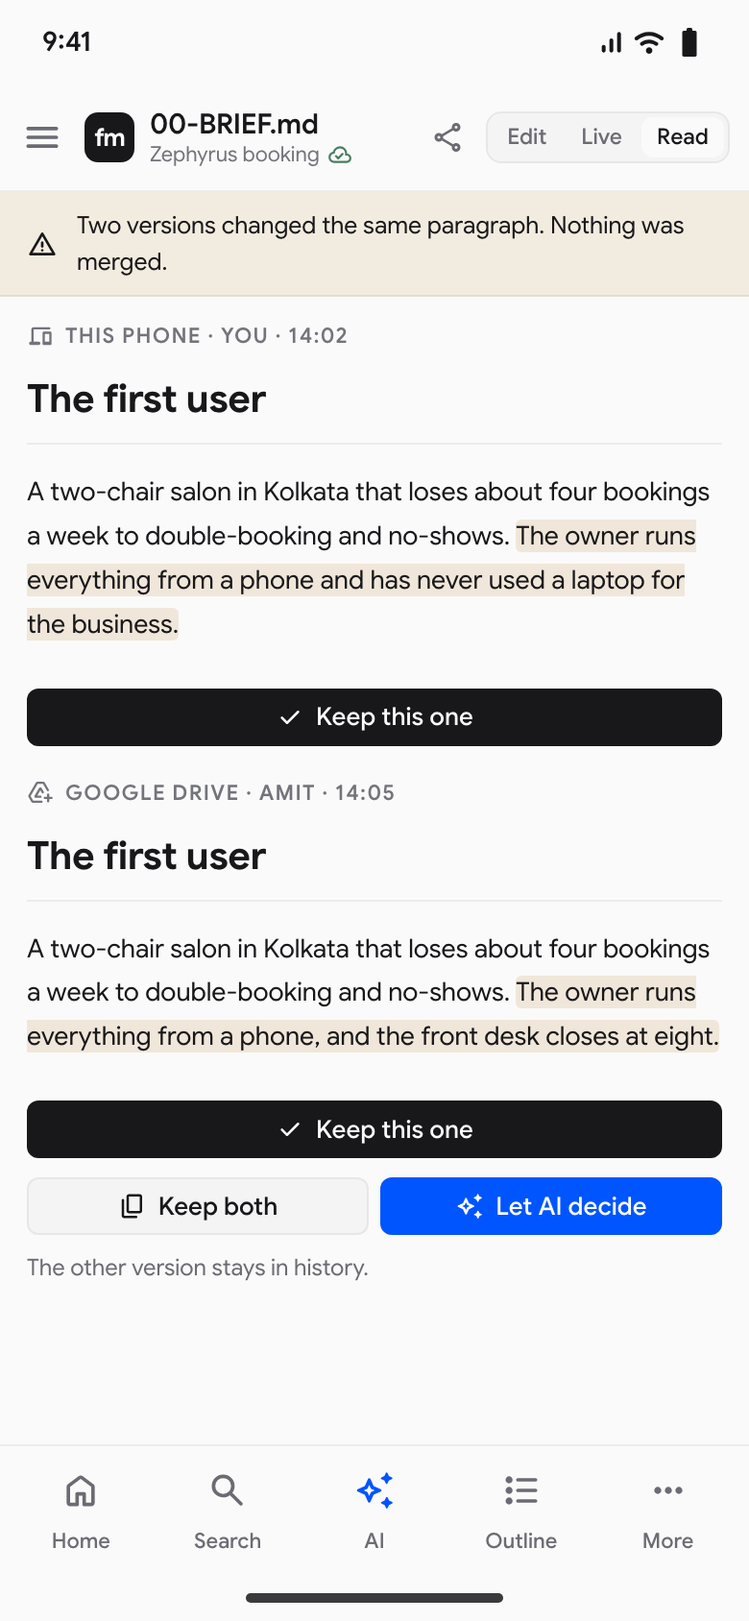
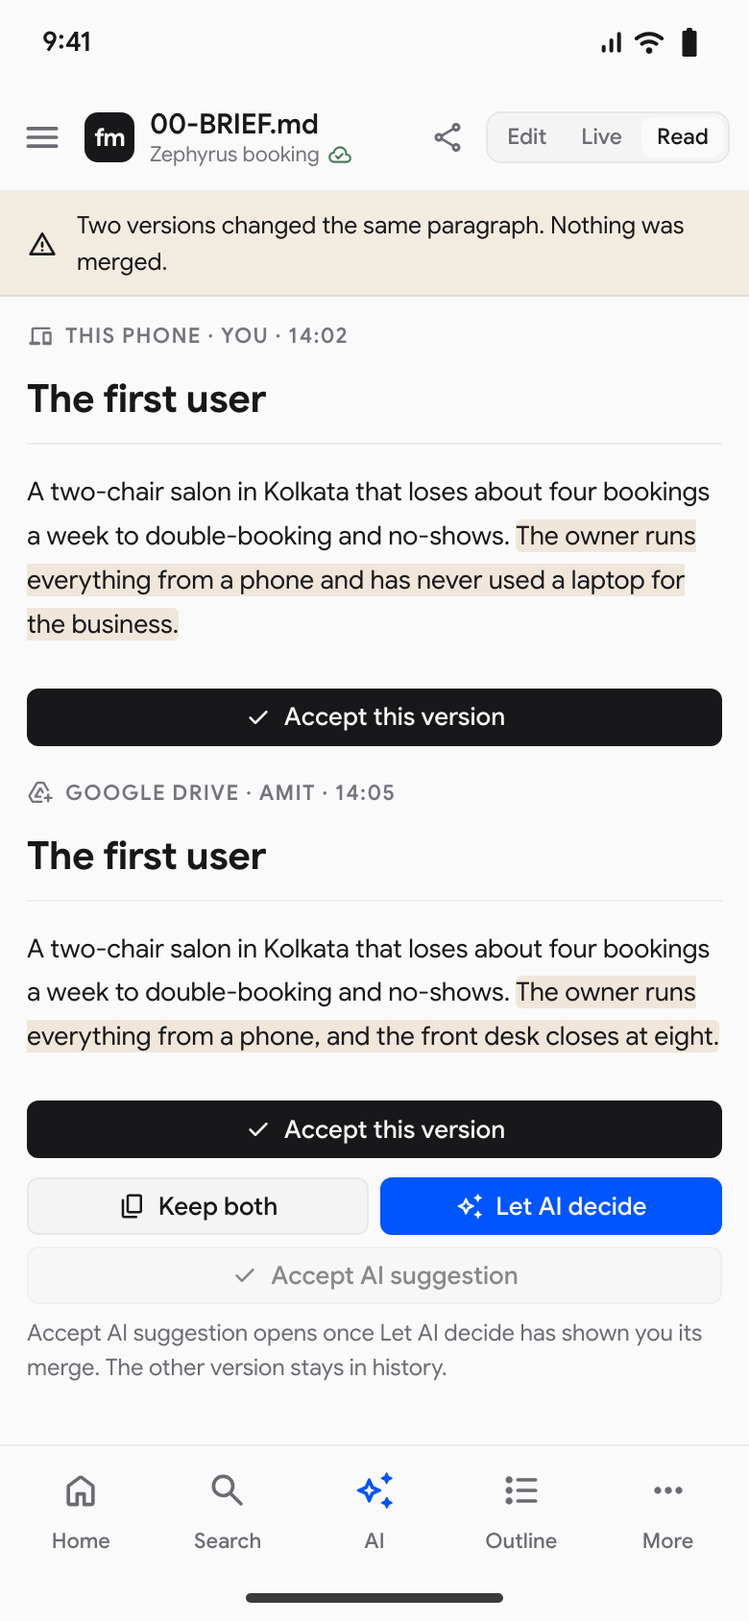
S31: Accept this version on each side, and Accept AI suggestion beside Let AI decide
Founder decision of 18 September 2026 [Z], closing D66. Let AI decide makes the merge as one
change queue item and previews it on S31; Accept AI suggestion is the person accepting that one
item, which writes exactly the previewed bytes. Disabled with its reason until a preview exists.
Review span by span opens S20 as before. A129 still holds; A726 to A728 added.

diff --git a/docs/pack/12-screens/S31.md b/docs/pack/12-screens/S31.md
@@ -41,10 +41,16 @@ A Google Drive edit against a web edit | The same screen, with Drive named as on
 A desktop edit against a GitHub change | The same screen again. `docs/mvp0/PRODUCT-PLAN.md` section 5
 
 How they leave | What happens
-Keep this one, either side | The chosen version becomes the head. The other is in history
+Accept this version, either side | The chosen version becomes the head. The other is in history
 Keep both as two files | Two documents, both intact, neither chosen for the other
-Let AI decide | Stays here. A proposal enters the change queue and is reviewed there, span by span
+Let AI decide | Stays here. One proposal enters the change queue and its merged result is previewed on this screen. Nothing is written
+Accept AI suggestion | The person accepts that one proposal. Its previewed bytes become the head, and both sides stay in history
+Review span by span | Goes to the change queue, S20, opened on the proposal, to accept or reject each span
 Close the tab | The conflict stays. Nothing is resolved by walking away, and nothing is lost
+
+**Two founder decisions of 18 September 2026 shape this screen.** `[Z]` Each side's control reads
+**Accept this version**, where it read Keep this one. And **Accept AI suggestion** sits on this
+screen beside Let AI decide. Both close `D66` below.
 
 **This is the screen the product's central promise is made of.** `[R]` no silent merge, ever,
 `docs/mvp0/PRODUCT-PLAN.md` section 16. The audit found the promise had no screen, which is why
@@ -57,15 +63,22 @@ Conflict banner | `C075` | Which document, which paragraph, why the two diverged
 Left pane | `C120` | One version, with its origin, its author and its time above it | Drawn with the `devices` symbol for a browser
 Right pane | `C120` | The other version, same shape | Drawn with `add_to_drive` when the origin is Drive
 Changed-span mark | `C120` | The span that differs, marked inside otherwise identical text | The `chg` mark in the generator. The unchanged text stays visible on both sides
-Keep control | `C061` | One per pane, directly under that version | Two of them, so a choice is never made from a menu
+Accept control | `C061` | One per pane, directly under that version, reading Accept this version | Two of them, so a choice is never made from a menu. `[Z]` renamed from Keep this one on 18 September
 Keep both | `C061` | One control in the footer bar | Makes two files, and names them
-Let AI decide | `C061` | One control in the footer bar, beside Keep both, marked as the AI action | Available, never hidden. `[Z]` `docs/mvp0/SCREEN-CHANGES-2026-09-18.md:202`
+Let AI decide | `C061` | One control in the footer bar, beside Keep both | Available, never hidden. `[Z]` `docs/mvp0/SCREEN-CHANGES-2026-09-18.md:202`. Once pressed it asks for a proposal and draws the preview. It writes nothing
+AI suggestion preview | `C120` | The merged result the proposal would write, with the changed span marked, and the line that nothing is written yet | Drawn between the panes and the footer bar once the proposal exists. `docs/mvp0/screens/gen.mjs:1872`
+Accept AI suggestion | `C061` | One control in the footer bar, directly after Let AI decide, marked as the AI action | `[Z]` 18 September. Disabled, with the reason under it, until the preview exists. `docs/mvp0/screens/gen.mjs:1873` and `:1878`
+Review span by span | `C061` ghost | One control in the footer bar, after Accept AI suggestion | Opens S20 on the same proposal. Live only once the proposal exists
 Consequence line | `C130` | The line stating that whichever is chosen, the other stays in history | It also names the desktop and GitHub case
-Proposal review | `C119` | The change queue, opened on the proposal the AI made | Not a part of this screen. It is where Let AI decide sends you
+Proposal review | `C119` | The change queue, opened on the proposal the AI made | Not a part of this screen. It is where Review span by span sends you
 
-**Four resolutions, all on one surface.** Keep left, keep right, keep both as two files, and let AI
-decide. `docs/mvp0/PRODUCT-PLAN.md` section 5. The fourth is the only one that does not resolve
-the conflict by itself.
+**Four resolutions, all on one surface.** Accept left, accept right, keep both as two files, and
+let AI decide. `docs/mvp0/PRODUCT-PLAN.md` section 5. The fourth never resolves the conflict by
+itself. It produces a proposal, and the person resolves by accepting it here or span by span in S20.
+
+**What the generator draws.** The desktop view shows the state after Let AI decide, with the preview
+and Accept AI suggestion live. The phone view shows the state before it, with Accept AI suggestion
+disabled and its reason. `docs/mvp0/screens/gen.mjs:1864` to `:1878`.
 
 ## Data contract
 
@@ -73,13 +86,24 @@ what | direction | port or store | shape | when
 The conflict | read | `ConflictReader.get(documentId)` | two version ids, their origins, authors and times, and the differing spans | On opening a conflicted document
 Both versions | read | `VaultReader.getFileAtSha(path, sha)` | the bytes of each side | On render. The interface exists at `src/modules/vault/application/ports.ts`
 Resolution | write | `ConflictWriter.resolve(documentId, choice)` | one of keep-left, keep-right, keep-both | On a keep control
-Merge proposal | write | `ChangeQueueWriter.propose(items)` | one item per span: author, source, span, proposed bytes | On Let AI decide
 Proposed merge | read | `AiMergeProposer.propose(left, right)` | a list of spans, each with the bytes it would write and which side it came from | On Let AI decide, once
-Queue decision | write | `ChangeQueueWriter.accept(itemId)` or `.reject(itemId)` | one item | On each span the person accepts or rejects, in S20
+Merge proposal | write | `ChangeQueueWriter.propose(item)` | **one** item: author AI, source conflict, the spans it carries, the proposed bytes of each, and the merged result's hash | On Let AI decide, after the proposer answers
+Preview | read | `ChangeQueueReader.get(itemId)` | the merged result rendered from the item's spans over the base, plus the hash | On render, while the item is pending
+Accept AI suggestion | write | `ChangeQueueWriter.accept(itemId, { expectedHash })` | one item, and the hash of the preview the person saw | On Accept AI suggestion. Refused if the hash no longer matches
+Queue decision | write | `ChangeQueueWriter.acceptSpan(itemId, spanId)` or `.rejectSpan(itemId, spanId)` | one span of the item | On each span the person accepts or rejects, in S20
 
 **The change queue row already has the right shape.** `docs/mvp0/PRODUCT-PLAN.md` section 18 defines it as
 author, source, span and proposed bytes, held until accepted or rejected and then becoming a
-version. An AI merge proposal is one of these rows per span, and nothing new.
+version. An AI merge proposal is **one** such row that carries several spans.
+
+**Why one item, not one per span.** `[Z]` 18 September: Let AI decide produces the merge as one
+proposal, so that Accept AI suggestion is a single accept of a single item. `INFERENCE:` S20 must
+therefore let a person open that one item and decide its spans one by one, which `A681` requires.
+`UNVERIFIED:` whether `12-screens/S20.md` already draws span-level decisions inside one item. It
+describes rows, not spans within a row.
+
+**`acceptSpan`, `rejectSpan`, `ChangeQueueReader` and the `expectedHash` option are specified, not
+built.** No change queue exists in the code at `0af3c90`.
 
 **`listConflicts` exists in the code and this screen does not.** `[O]`
 `src/modules/share/application/list-conflicts.ts` is present at `0af3c90`. `UNVERIFIED:` whether it
@@ -89,32 +113,43 @@ carries the shape this screen needs, because it was not read in this session.
 
 action | trigger | what happens | failure behaviour | event id
 Show the conflict | Opening a conflicted document | Both versions render side by side, neither marked as preferred | `E850` when one side's bytes cannot be read. The other side is still shown and no choice is offered | `conflict.shown`
-Keep this one, left | The left pane's control | That version becomes the head. The other becomes a history entry | `E106` on a failed write. Nothing changes and the conflict stands | `conflict.resolved`
-Keep this one, right | The right pane's control | The same, mirrored | `E106` | `conflict.resolved`
+Accept this version, left | The left pane's control | That version becomes the head. The other becomes a history entry | `E106` on a failed write. Nothing changes and the conflict stands | `conflict.resolved`
+Accept this version, right | The right pane's control | The same, mirrored | `E106` | `conflict.resolved`
 Keep both as two files | The footer control | Two documents, each with a name that says which is which | `E550` when a name is taken. It asks rather than silently renaming | `conflict.resolved`
-Let AI decide | The footer control | A merge is proposed. Every span it would change becomes a change queue item. **The file is not written.** The person is taken to the queue | `E080` when no provider answers, which is S32's condition. The four other resolutions stay available and nothing is spent | `conflict.ai.merge.proposed`
-Accept a proposed span | In the queue, per item | That one span is spliced. The rest of the proposal stays pending | The splice writer refuses rather than guess on an ambiguous range, and says which span it refused | `doc.change.accepted`
-Reject a proposed span | In the queue, per item | That item is dropped. Nothing is written | None | `doc.change.rejected`
-Accept every proposed span | In the queue | Each item is applied in turn, and counted separately in the measures | A refusal on one span stops at that span and leaves the earlier ones applied, named | `doc.change.accepted`
+Let AI decide | The footer control | A merge is proposed and entered as **one** change queue item. Its merged result is drawn as a preview on this screen. **The file is not written.** The person stays here | `E080` when no provider answers, which is S32's condition. The other resolutions stay available and nothing is spent | `conflict.ai.merge.proposed`
+Accept AI suggestion | The footer control, live once the preview exists | The person accepts that one item. Exactly the previewed bytes are spliced as one version, authored AI and accepted by this person. Both sides stay in history | `E106` on a failed write, and nothing changes. If the item or the file changed after the preview was drawn, the accept is refused, the preview is redrawn, and nothing is written | `doc.change.accepted`
+Review span by span | The footer control, live once the preview exists | S20 opens on the same item, with its spans listed | None. Leaving S20 without deciding leaves the item pending and the conflict open | none
+Accept a proposed span | In S20, per span of the item | That one span is spliced. The item's other spans stay pending | The splice writer refuses rather than guess on an ambiguous range, and says which span it refused | `doc.change.accepted`
+Reject a proposed span | In S20, per span of the item | That span is dropped. Nothing is written | None | `doc.change.rejected`
+
+**Accept AI suggestion is not a bulk accept.** `12-screens/S20.md` rules that AI items are never
+accepted in bulk and never applied without a person pressing accept. This control is one person's
+accept of one item, pressed with the whole result on screen. Nothing is accepted that was not shown.
+
+**The disabled state.** Before Let AI decide has run, while the proposer is still answering, and when
+no provider answered, Accept AI suggestion and Review span by span are drawn disabled. The reason is
+stated under them in words, `K.s31.acceptai.off`, never only by a greyed control.
 
 **The path Let AI decide takes.** The one thing on this screen a builder can get wrong.
 
 ```mermaid
 flowchart TD
   A[Two versions differ] --> B{Person chooses}
-  B -->|Keep left| C[Left becomes head, right into history]
-  B -->|Keep right| D[Right becomes head, left into history]
+  B -->|Accept left| C[Left becomes head, right into history]
+  B -->|Accept right| D[Right becomes head, left into history]
   B -->|Keep both| E[Two files, both intact]
   B -->|Let AI decide| F[Model proposes a merge]
-  F --> G[One change queue item per span]
-  G --> H{Per span, the owner decides}
-  H -->|Accept| I[That span is spliced, a version is written]
-  H -->|Reject| J[Nothing is written for that span]
+  F --> G[One change queue item, previewed on S31]
+  G --> H{The person decides}
+  H -->|Accept AI suggestion| I[Exactly the previewed bytes are spliced as one version]
+  H -->|Review span by span| L[S20, per span accept or reject]
+  L -->|Accept a span| M[That span is spliced]
+  L -->|Reject a span| J[Nothing is written for that span]
   G -.->|never| K[Writing the merge to the file]
 ```
 
 **The dotted edge is the law.** No path from a model's proposal to the file exists without a
-person's accept on that span.
+person's accept, either of the whole previewed item on this screen or of one span in S20.
 
 ## States
 
@@ -126,10 +161,14 @@ partial | One side read, the other failed | The readable side, and `E850` in the
 offline | No network | The local side renders. The remote side says it cannot be read here | Wait, or go online. A conflict is not resolved from one side only
 unauthorised | The person is not the owner | The conflict is shown read-only, with who must resolve it | Read, comment
 over-cap | The account is over a cap | Resolution still works. Keeping both makes a new file, which is the one action a cap can block, and it says so | Keep one of the two, or get under the cap
-AI-unavailable | Every provider refused | The Let AI decide control is disabled with the reason, and points at S32 | Use the other three, which never need a model
+AI-unavailable | Every provider refused | The Let AI decide control is disabled with the reason, and points at S32. Accept AI suggestion stays disabled with its reason | Use the other three, which never need a model
+before-proposal | Let AI decide has not been pressed | Accept AI suggestion and Review span by span drawn disabled, with `K.s31.acceptai.off` under them. The phone view draws this state | Any resolution, or Let AI decide
+proposing | The proposer is answering | The preview region holds a working line. Accept AI suggestion stays disabled with the same reason | Wait, or choose another resolution. Nothing is written either way
+preview | The proposal is one pending queue item | The merged result under the panes, `K.s31.preview`, with the changed span marked. Accept AI suggestion is live. The desktop view draws this state | Accept AI suggestion, Review span by span, or any other resolution. Choosing another rejects the pending item
+stale-preview | The file or the item changed after the preview was drawn | Accept AI suggestion is refused, the preview is redrawn from the current item, and one line says it changed | Look again, then accept or choose
 conflict | This is that state | See above | See above
 error | The conflict record itself cannot be read | The document opens read-only with one line saying it is in conflict and cannot be shown yet | Retry
-degraded | The AI proposal arrived partly | The spans that were proposed enter the queue. The ones that were not are named as not proposed, never as agreed | Review what arrived, or choose another resolution
+degraded | The AI proposal arrived partly | The spans that were proposed enter the one item. The ones that were not are named as not proposed, never as agreed. **Accept AI suggestion stays disabled**, because a partial merge is not a result | Review span by span, or choose another resolution
 three-way | More than two versions diverged | `UNVERIFIED:` not drawn and not specified. See `D65`| n/a
 
 ## Copy
@@ -140,10 +179,14 @@ id | what it carries
 `K.s31.origin.drive` | The same for a Google Drive edit.
 `K.s31.origin.desktop` | The same for a desktop edit.
 `K.s31.origin.github` | The same for a GitHub change.
-`K.s31.keep` | The keep control under each pane.
+`K.s31.keep` | The control under each pane, reading Accept this version since 18 September.
 `K.s31.keepboth` | The keep-both control, and what the two files will be called.
 `K.s31.letai` | The Let AI decide control.
 `K.s31.letai.explain` | The sentence stating that it proposes and never writes, reviewed span by span.
+`K.s31.preview` | The label over the merged result: a preview, nothing written yet, one change in the queue.
+`K.s31.acceptai` | The Accept AI suggestion control.
+`K.s31.acceptai.off` | The reason under the disabled Accept AI suggestion control.
+`K.s31.reviewspans` | The Review span by span control.
 `K.s31.consequence` | The line that the other version stays in history whichever is chosen.
 `K.s31.aidown` | The line on the disabled Let AI decide control when no provider answered.
 `K.s31.readonly` | The line shown to a person who may read the conflict but not resolve it.
@@ -152,17 +195,21 @@ id | what it carries
 
 - Focus lands on the banner, so what happened is read before what can be done.
 - Left and right arrows move between the two panes. The pane header is read with the body.
-- Enter on a focused pane keeps that version, after a confirmation, because it is not reversible
+- Enter on a focused pane accepts that version, after a confirmation, because it is not reversible
   without going to history.
-- The footer controls follow the two panes in tab order, Keep both then Let AI decide.
+- The footer controls follow the two panes in tab order: Keep both, Let AI decide, Accept AI
+  suggestion, Review span by span. The preview is read before Accept AI suggestion is reached.
+- Enter on Accept AI suggestion asks for the same confirmation as a pane, for the same reason.
 - **No shortcut resolves a conflict.** A chord that could be hit by accident must not choose one
   version over another.
 - `UNVERIFIED:` no conflict could be checked against `15-INTERACTION-AND-KEYBOARD.md`.
 
 ## Responsive
 
-- The two panes stack, left above right, each keeping its own provenance header and its own keep
-  control directly underneath. The generator draws exactly this.
+- The two panes stack, left above right, each keeping its own provenance header and its own Accept
+  this version control directly underneath. The generator draws exactly this.
+- Accept AI suggestion sits full width under Keep both and Let AI decide, with its reason under it
+  while disabled. `docs/mvp0/screens/gen.mjs:1878`.
 - The banner is shortened on the phone to the document and the fact that nothing was merged.
 - Keep both and the consequence line sit under the second pane.
 - **Nothing is removed at phone width**, including Let AI decide, because a conflict is most likely
@@ -190,6 +237,12 @@ id | criterion | test id
 `A683` | With one side unreadable, no keep control is offered | `T-S31-no-half-choice`.
 `A684` | With every provider down, the other three resolutions still work and nothing is deducted | `T-S31-ai-down-still-usable`.
 `A685` | The merges-attempted counter is zero across the whole suite | `T-S31-merges-attempted-zero`.
+`A726` | Accept AI suggestion writes exactly the previewed bytes, as one change queue item accepted by the person who pressed it, and nothing else | `T-S31-accept-ai-is-the-preview`.
+`A727` | Before a preview exists, and in the degraded state, Accept AI suggestion is disabled and pressing it writes zero bytes | `T-S31-accept-ai-needs-a-preview`.
+`A728` | When the file or the item changed after the preview was drawn, Accept AI suggestion is refused and writes zero bytes | `T-S31-accept-ai-stale-refused`.
+
+**`A129` stays true after the 18 September change.** Let AI decide still writes zero bytes. The only
+write on the AI path is the person's own accept, which `A726` pins to the bytes they were shown.
 
 **`A685` is the measure the plan already keeps.** `docs/mvp0/PRODUCT-PLAN.md` section 28 lists sync
 conflicts shown against merges attempted, and says the second must be zero.
@@ -202,9 +255,11 @@ conflicts shown against merges attempted, and says the second must be zero.
 - **Never merge.** Not automatically, not on a timer, not when the two sides look compatible, not
   when only one side changed a paragraph. This is the law the product is built around,
   `docs/mvp0/PRODUCT-PLAN.md` section 16.
-- **Never let a model write to the file.** Let AI decide produces a proposal. A proposal is reviewed
-  span by span in the change queue and applied one accept at a time.
-  `docs/mvp0/PRODUCT-PLAN.md` section 5.
+- **Never let a model write to the file.** Let AI decide produces a proposal. A proposal is written
+  only by a person's accept: Accept AI suggestion for the whole previewed item, or one span at a
+  time in the change queue. `docs/mvp0/PRODUCT-PLAN.md` section 5.
+- **Never accept bytes the person was not shown.** Accept AI suggestion writes the preview's bytes or
+  nothing. A changed file or item since the preview means a refusal and a redraw.
 - **Never hide Let AI decide.** `[Z]` it is offered alongside the other three,
   `docs/mvp0/SCREEN-CHANGES-2026-09-18.md:202`. A useful option behind a menu is a worse answer
   than a bad option in the open.
@@ -222,7 +277,7 @@ conflicts shown against merges attempted, and says the second must be zero.
 
 id | question | why it is open
 `D65` | What happens when three or more versions diverge? | Two panes are drawn and the plan describes two. A third device makes this screen wrong rather than crowded
-`D66` | What did the founders mean by **Accept**? | `[Z]` `docs/mvp0/SCREEN-CHANGES-2026-09-18.md:201` says to add Accept as an option, in a list that already separately adds Let AI decide and Accept AI suggestions. `INFERENCE:` the most consistent reading is that Accept is the per-span accept in the queue, which is where Accept AI suggestions also lands. The other reading is a fifth control on this screen meaning take the incoming version. The two differ in build cost and in copy
+`D66` | **Decided 18 September 2026.** What did the founders mean by **Accept**? | `[Z]` Accept is the per-side control, renamed from Keep this one to Accept this version. Accept AI suggestion is a control on this screen, beside Let AI decide, that accepts the one previewed proposal. Recorded in Anatomy, Actions, States and `A726` to `A728` above
 `D67` | Who resolves a conflict on a shared document, the owner or any editor? | `docs/mvp0/PRODUCT-PLAN.md` section 19 gives Editor both Propose and Apply, which implies an editor may resolve. The plan does not say it
 `D68` | What are the two files called after Keep both? | The control is specified, the naming is not, and a silent rename would be its own small violation
 

diff --git a/docs/pack/16-COPY-DECK.md b/docs/pack/16-COPY-DECK.md
@@ -1176,11 +1176,15 @@ id | string | tone | budget | notes
 `K.s31.banner` | Two versions of {file} changed the same paragraph while one of them was offline. Nothing was merged. Choose one, or keep both. | `caution` | `long` | `[gen]` `docs/mvp0/screens/gen.mjs:1599`. **"Nothing was merged" comes before the instruction**, because that is the fear to answer first.
 `K.s31.banner.phone` | Two versions changed the same paragraph. Nothing was merged. | `caution` | `body` | `[gen]` `docs/mvp0/screens/gen.mjs:1604`.
 `K.s31.side` | {source} · {who} · {time} | `plain` | `label`, 34 | `[gen]` `docs/mvp0/screens/gen.mjs:1600`. `{source}` is "This browser", "This phone", "Google Drive", the desktop or GitHub.
-`K.s31.keep` | Keep this one | `label` | `button`, 16 | `[gen]` `docs/mvp0/screens/gen.mjs:1600`.
+`K.s31.keep` | Accept this version | `label` | `button`, 19 | `[gen]` `docs/mvp0/screens/gen.mjs:1870`. `[Z]` renamed from Keep this one on 18 September 2026 (S31, `D66`). The id is kept so nothing that points at it breaks.
 `K.s31.keepboth` | Keep both as two files | `label` | `button`, 26 | `[gen]` `docs/mvp0/screens/gen.mjs:1602`.
 `K.s31.letai` | Let AI decide | `label` | `button`, 16 | `[gen]` `docs/mvp0/screens/gen.mjs:1602`. **Offered, not hidden** `[Z]` (`docs/mvp0/SCREEN-CHANGES-2026-09-18.md:202`). Its proposal enters the change queue; it never writes to the file.
 `K.s31.note` | Whichever you choose, the other version stays in history. The same screen appears for a desktop edit against a GitHub change. | `promise` | `long` | `[gen]` `docs/mvp0/screens/gen.mjs:1602`.
 `K.s31.count` | {n} conflict to resolve | `caution` | `label`, 26 | `[gen]` `docs/mvp0/screens/gen.mjs:1598`. Plural on `{n}`.
+`K.s31.preview` | AI suggestion · a preview, nothing is written yet · one change in your queue | `promise` | `label`, 76 | `[gen]` `docs/mvp0/screens/gen.mjs:1872`. `[Z]` 18 September. Over the merged result once Let AI decide has answered. **"Nothing is written yet" is the promise**, so it is never cut for space.
+`K.s31.acceptai` | Accept AI suggestion | `label` | `button`, 20 | `[gen]` `docs/mvp0/screens/gen.mjs:1873`. `[Z]` 18 September. Accepts the one previewed proposal and writes exactly its bytes. Pressed by a person, never automatic.
+`K.s31.acceptai.off` | Accept AI suggestion opens once Let AI decide has shown you its merge. | `plain` | `body`, 70 | `[gen]` `docs/mvp0/screens/gen.mjs:1878`. Under the disabled control, before a preview exists, while it is being made, and when a merge arrived only in part.
+`K.s31.reviewspans` | Review span by span | `label` | `button`, 19 | `[gen]` `docs/mvp0/screens/gen.mjs:1873`. Opens S20 on the same proposal.
 
 **`K.s31.letai` needs a second string that does not exist.** `[new]` When the proposal arrives in the
 queue it needs a row that says it came from a merge attempt and is a proposal, not a result. Without

diff --git a/docs/pack/19-ACCEPTANCE-CRITERIA.md b/docs/pack/19-ACCEPTANCE-CRITERIA.md
@@ -607,6 +607,9 @@ id | feature | given | when | then | test | spec
 `A723` | `F258` | The accounts screen | Its meters and ledger render | Every figure equals the usage ledger's value, and the component source contains no summing code over ledger rows | `T723` | `12-screens/S38.md`.
 `A724` | `F275` | The audit log | An update and a delete are attempted on a row through the panel and through a direct server call | All four are refused and the row is unchanged | `T724` | `12-screens/S38.md`.
 `A725` | `F274` | A search string matching no account exactly | It is submitted | Zero results render | `T725` | `12-screens/S38.md`.
+`A726` | `F233` | A conflict whose AI proposal is one pending change queue item, previewed on S31 | Accept AI suggestion is pressed by the owner | The file's new bytes equal the previewed bytes, exactly one queue item moves to accepted with that person as the accepter, and no other item changes | `T726` | `12-screens/S31.md`.
+`A727` | `F233` | A conflict before Let AI decide, and separately a proposal that arrived only in part | Accept AI suggestion is pressed | The control is disabled with its reason shown, and zero bytes are written | `T727` | `12-screens/S31.md`.
+`A728` | `F233` | A previewed proposal, then the file or the item changed before the accept | Accept AI suggestion is pressed | The accept is refused, zero bytes are written, and the preview is redrawn | `T728` | `12-screens/S31.md`.
 
 ---
 
@@ -625,9 +628,9 @@ grep -E '^`A[0-9]{3}` \|' docs/pack/19-ACCEPTANCE-CRITERIA.md \
   | grep -cE '\| `(test/|scripts/|docs/mvp0/screens/gen)'
 ```
 
-- **355 criteria**: 129 written first, and 226 added in section 12a on 18 September.
+- **358 criteria**: 129 written first, 226 added in section 12a on 18 September, and 3 more for S31 (`A726` to `A728`) the same day.
 - **12 distinct real test paths.**
-- **19 criteria carry one.** The remaining 336 carry a `T` id and do not exist.
+- **19 criteria carry one.** The remaining 339 carry a `T` id and do not exist.
 - **One criterion is marked `Not yet checkable`**, in section 12a.2, because two screens disagree.
 
 **That ratio is the honest state of the product.** The engine has tests; almost nothing else does.

diff --git a/docs/mvp0/PRODUCT-PLAN.md b/docs/mvp0/PRODUCT-PLAN.md
@@ -682,10 +682,12 @@ Later, named | A Max tier above Pro; a community as an opt-in index plus GitHub 
 <div class="pair"><img src="screens/s31-conflict.png"><img src="screens/s31-conflict-phone.png"></div>
 
 - Two versions of the same document side by side, each with its author, device and time. Nothing was merged.
-- Keep left, keep right, or keep both as two files. The other version is always in history.
-- **Let AI decide** is offered alongside those, not hidden. It proposes a merge, and that proposal enters the change queue like any other, to be accepted or rejected span by span `[Z]`. It never writes straight to the file, because no silent merge is a law and this is exactly the case it exists for.
+- **Accept this version** under each side, or keep both as two files. The other version is always in history. `[Z]` 18 September: the per-side control reads Accept this version, where it read Keep this one.
+- **Let AI decide** is offered alongside those, not hidden. It proposes a merge as one change queue item and shows the merged result as a preview on this screen `[Z]`. It never writes straight to the file, because no silent merge is a law and this is exactly the case it exists for.
+- **Accept AI suggestion** sits beside Let AI decide `[Z]` 18 September. It is the person accepting that one previewed item, and it writes exactly the bytes shown. Until a preview exists it is disabled, with the reason under it.
+- **Review span by span** opens the same item in the change queue, S20, to accept or reject each span.
 - The same screen serves a Drive edit against a web edit and a desktop edit against a GitHub change.
-- The phone carries Let AI decide beside Keep both, so it is not hidden there either.
+- The phone carries Let AI decide beside Keep both, and Accept AI suggestion under them, so neither is hidden there. The phone view shows it disabled, before a preview; the desktop view shows the preview.
 
 **Why.** `[R]` settled: no silent merge, ever. The audit found the plan's central promise had no screen.
 

diff --git a/docs/mvp0/SCREENS.md b/docs/mvp0/SCREENS.md
@@ -352,10 +352,12 @@ Later | The portfolio at frontmatter.in/@handle, the MCP server and API, Team, a
 <div class="pair"><img src="screens/s31-conflict.png"><img src="screens/s31-conflict-phone.png"></div>
 
 - Two versions of the same document side by side, each with its author, device and time. Nothing was merged.
-- Keep left, keep right, or keep both as two files. The other version is always in history.
-- **Let AI decide** is offered alongside those, not hidden. It proposes a merge, and that proposal enters the change queue like any other, to be accepted or rejected span by span `[Z]`. It never writes straight to the file, because no silent merge is a law and this is exactly the case it exists for.
+- **Accept this version** under each side, or keep both as two files. The other version is always in history. `[Z]` 18 September: the per-side control reads Accept this version, where it read Keep this one.
+- **Let AI decide** is offered alongside those, not hidden. It proposes a merge as one change queue item and shows the merged result as a preview on this screen `[Z]`. It never writes straight to the file, because no silent merge is a law and this is exactly the case it exists for.
+- **Accept AI suggestion** sits beside Let AI decide `[Z]` 18 September. It is the person accepting that one previewed item, and it writes exactly the bytes shown. Until a preview exists it is disabled, with the reason under it.
+- **Review span by span** opens the same item in the change queue, S20, to accept or reject each span.
 - The same screen serves a Drive edit against a web edit and a desktop edit against a GitHub change.
-- The phone carries Let AI decide beside Keep both, so it is not hidden there either.
+- The phone carries Let AI decide beside Keep both, and Accept AI suggestion under them, so neither is hidden there. The phone view shows it disabled, before a preview; the desktop view shows the preview.
 
 ### S32. AI unavailable
 
